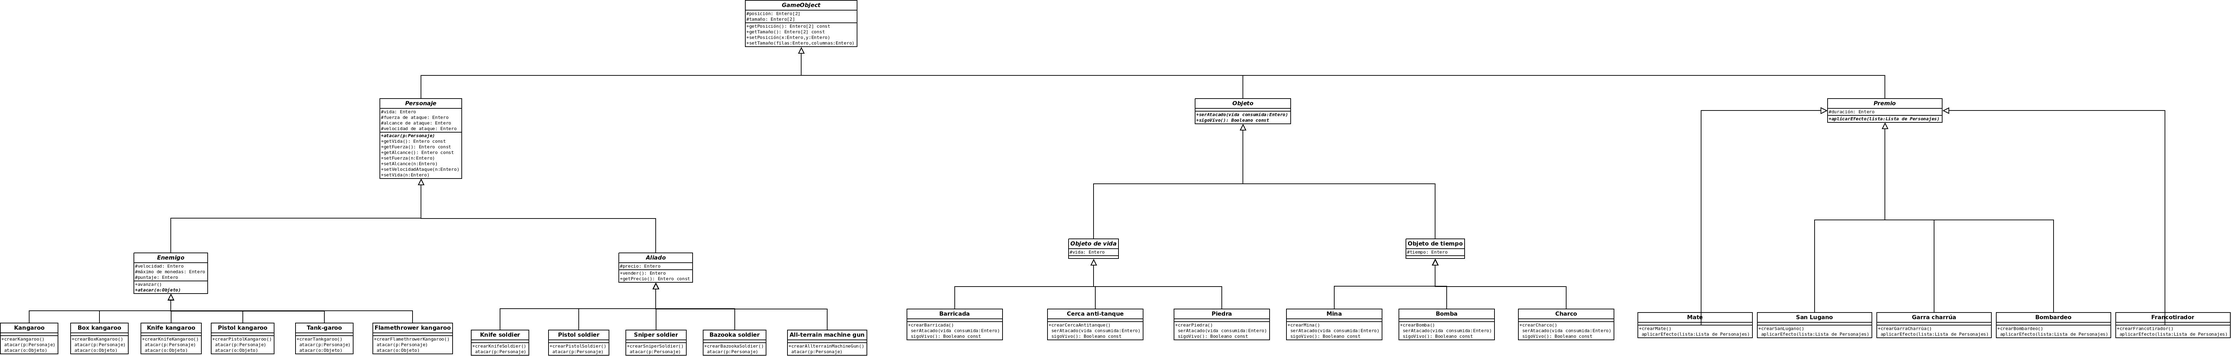
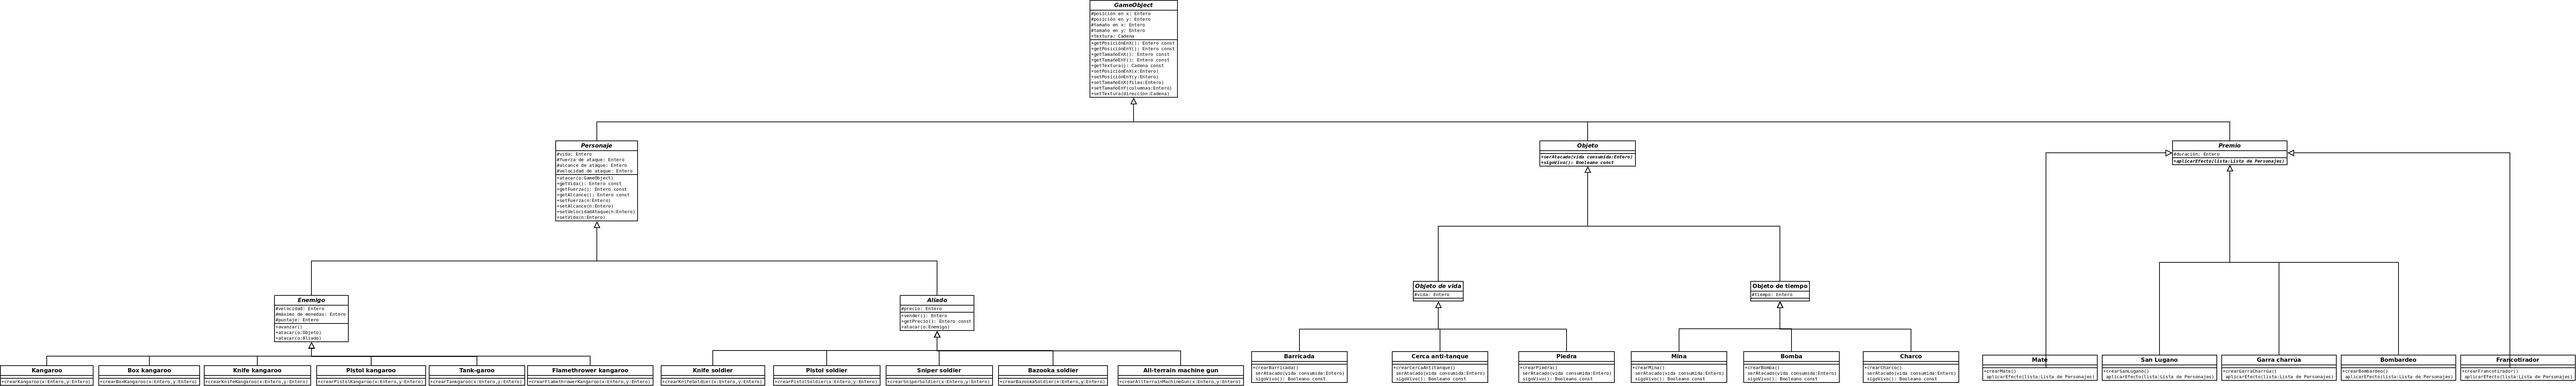
Creados objetos temporales y objetos con vida. Actualizado el diseño de clases con los métodos atacar() dentro de las clases padre 'Enemigo' y 'Aliado' en lugar de en cada uno de sus hijos

diff --git a/Fuentes/src/Objetos/CercaAntiTanque.java b/Fuentes/src/Objetos/CercaAntiTanque.java
@@ -1,0 +1,36 @@
+package Objetos;
+
+/**
+ * Modela a la cerca antitanque.
+ * @author Comisión 25 (FERNÁNDEZ, LATOUQUETTE, LÓPEZ)
+ * @version 1.0
+ */
+public class CercaAntiTanque extends ObjetoVida {
+	/**
+	 * Constructor
+	 * @param x Posición x en el mapa
+	 * @param y Posición y en el mapa
+	 */
+	public CercaAntiTanque(int x, int y) {
+		//atributos físicos
+		this.posicion_x = x;
+		this.posicion_y = y;
+		this.tamano_x = 1;
+		this.tamano_y = 2;
+		this.textura = "";
+		
+		//atributos lógicos
+		this.vida = 100;
+	}
+	
+	@Override
+	public void serAtacado(int ataque) {
+		vida -= ataque;
+	}
+
+	@Override
+	public boolean sigoVivo() {
+		return vida > 0;
+	}
+
+}

diff --git a/Fuentes/src/General/Aliado.java b/Fuentes/src/General/Aliado.java
@@ -26,11 +26,25 @@ public abstract class Aliado extends Personaje {
 		this.precio = precio;
 	}
 	
+	/**
+	 * Se invoca al vender al aliado. En caso de que el aliado tenga toda su vida, al venderlo devuelve 
+	 * todo su precio en monedas. En caso contrario, devuelve solamente la mitad de su precio.
+	 * @return La cantidad de monedas correspondiente
+	 */
 	public int vender() {
 		int valor = precio;
 		if(vida < MAX_VIDA) {
 			valor = valor / 2;
 		}
 		return valor;
+	}
+	
+	/**
+	 * Ataca a un enemigo
+	 * @param a El enemigo a atacar
+	 */
+	public void atacar(Enemigo o) {
+		o.setVida(o.getVida() - fuerza_ataque);
+		esperar(velocidad_ataque);
 	}
 }

diff --git a/Fuentes/src/Enemigos/Kangaroo.java b/Fuentes/src/Enemigos/Kangaroo.java
@@ -34,29 +34,4 @@ public class Kangaroo extends Enemigo {
 		this.fuerza_ataque = 1;
 		this.puntaje = 25;
 	}
-	
-	/*
-	@Override
-	public void atacar(Aliado a) {
-		a.setVida(a.getVida() - fuerza_ataque);
-	}*/
-
-	@Override
-	public void atacar(Objeto o) {
-		o.serAtacado(fuerza_ataque);
-		esperar(velocidad_ataque);
-	}
-	
-	@Override
-	public void atacar(Personaje p) {
-		try {
-			Aliado a = (Aliado) p;
-			a.setVida(a.getVida() - fuerza_ataque);
-			esperar(velocidad_ataque);
-		}catch(ClassCastException c){
-			//Si el personaje enviado no es un aliado, no hago nada
-			//TODO No sé si es correcto hacer esto
-		}
-	}
-
 }

diff --git a/Fuentes/src/Objetos/Charco.java b/Fuentes/src/Objetos/Charco.java
@@ -1,0 +1,32 @@
+package Objetos;
+
+/**
+ * Modela al charco (objeto de mapa).
+ * @author Comisión 25 (FERNÁNDEZ, LATOUQUETTE, LÓPEZ)
+ * @version 1.0
+ */
+public class Charco extends ObjetoTemporal {
+	
+	public Charco(int x, int y) {
+		//atributos físicos
+		this.posicion_x = x;
+		this.posicion_y = y;
+		this.tamano_x = 1;
+		this.tamano_y = 1;
+		this.textura = "";
+		
+		//atributos lógicos
+		this.tiempo = 30;
+	}
+	
+	@Override
+	public void serAtacado(int ataque) {
+		// Si soy atacado, no hago nada
+	}
+
+	@Override
+	public boolean sigoVivo() {
+		return tiempo > 0;
+	}
+
+}

diff --git a/Fuentes/src/General/Enemigo.java b/Fuentes/src/General/Enemigo.java
@@ -59,15 +59,21 @@ public abstract class Enemigo extends Personaje {
 	}
 
 
-	/** TODO Borrar
+	/**
 	 * Ataca a un aliado (o sea, pesonaje del jugador)
 	 * @param a El aliado a atacar
 	 */
-	//public abstract void atacar(Aliado a);
+	public void atacar(Aliado o) {
+		o.setVida(o.getVida() - fuerza_ataque);
+		esperar(velocidad_ataque);
+	}
 	
 	/**
 	 * Ataca a un objeto
 	 * @param o El objeto a atacar
 	 */
-	public abstract void atacar(Objeto o);	
+	public void atacar(Objeto o) {
+		o.serAtacado(fuerza_ataque);
+		esperar(velocidad_ataque);
+	}	
 }

diff --git a/Fuentes/src/Objetos/ObjetoTemporal.java b/Fuentes/src/Objetos/ObjetoTemporal.java
@@ -1,0 +1,22 @@
+package Objetos;
+
+import General.Objeto;
+
+/**
+ * Modela a los objetos temporales.
+ * @author Comisión 25 (FERNÁNDEZ, LATOUQUETTE, LÓPEZ)
+ * @version 1.0
+ */
+public abstract class ObjetoTemporal extends Objeto {
+	protected int tiempo;
+	//protected Thread reloj = new Thread();
+	
+	protected void descontar() {
+		/*try {
+			reloj.sleep(1000);
+		}catch(InterruptedException ie) {
+			//No sé que hacer en este caso
+		}*/
+		tiempo--;
+	}
+}

diff --git a/Fuentes/src/Aliados/PistolSoldier.java b/Fuentes/src/Aliados/PistolSoldier.java
@@ -32,15 +32,4 @@ public class PistolSoldier extends Aliado {
 		this.velocidad_ataque = 1;
 		this.vida = MAX_VIDA;		
 	}
-	
-	public void atacar(Personaje p) {
-		try {
-			Enemigo e = (Enemigo) p;
-			e.setVida(e.getVida() - fuerza_ataque);
-			esperar(velocidad_ataque);
-		}catch(ClassCastException c){
-			//Si el personaje enviado no es un aliado, no hago nada
-			//TODO No sé si es correcto hacer esto
-		}
-	}
 }

diff --git a/Fuentes/src/General/Personaje.java b/Fuentes/src/General/Personaje.java
@@ -75,10 +75,10 @@ public abstract class Personaje extends GameObject {
 	}
 	
 	/**
-	 * Ataca a un personaje
-	 * @param p Personaje a atacar
+	 * Ataca a un objeto del mapa
+	 * @param p El objeto a atacar
 	 */
-	public abstract void atacar(Personaje p);
+	public void atacar(GameObject o) {}
 	
 	/**
 	 * Espera un determinado tiempo

diff --git a/Fuentes/src/Objetos/ObjetoVida.java b/Fuentes/src/Objetos/ObjetoVida.java
@@ -1,0 +1,12 @@
+package Objetos;
+
+import General.Objeto;
+
+/**
+ * Modela a los objetos con vida.
+ * @author Comisión 25 (FERNÁNDEZ, LATOUQUETTE, LÓPEZ)
+ * @version 1.0
+ */
+public abstract class ObjetoVida extends Objeto {
+	protected int vida;
+}
